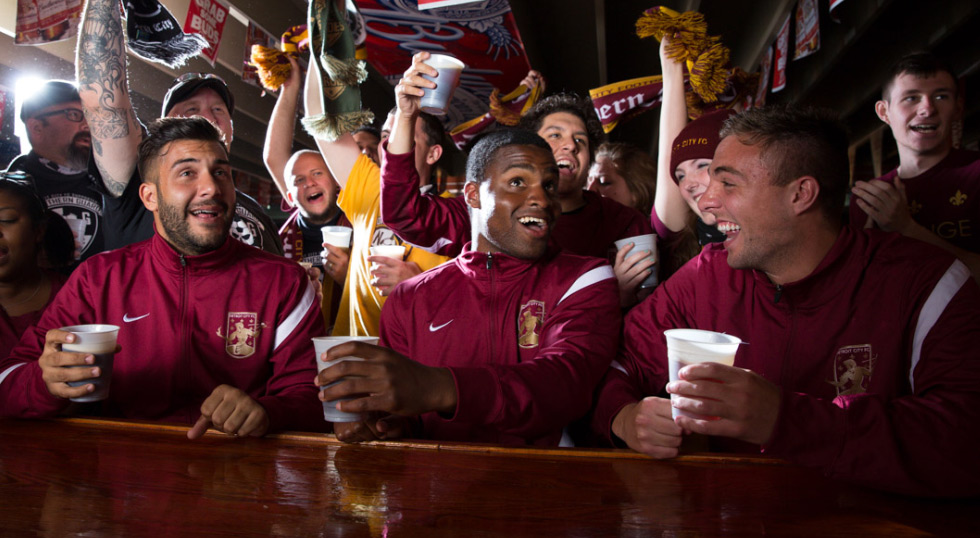
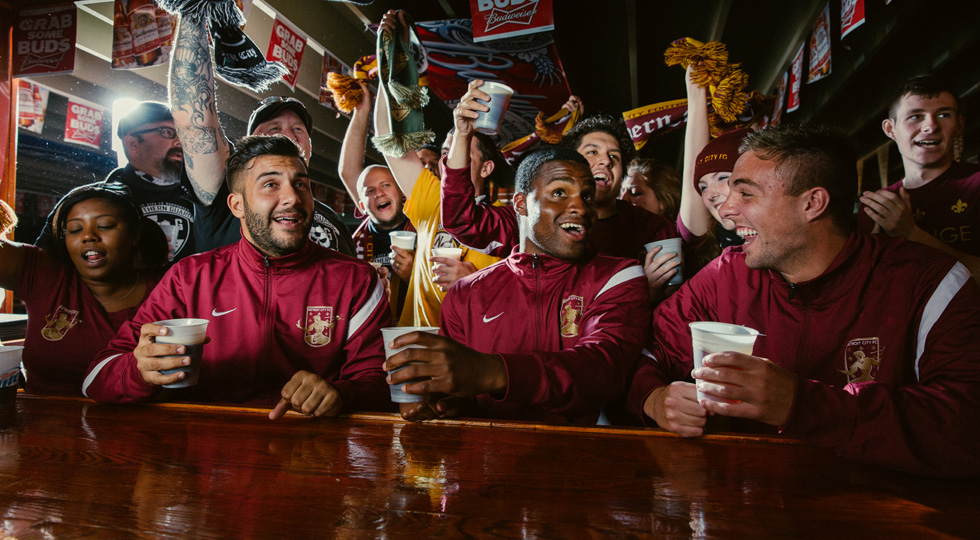
allez le rouge

diff --git a/index.php b/index.php
@@ -13,11 +13,12 @@
                 <div class='col col_12 masthead last'>
                 <?php
                     $masthead_items = array(
+                        array('2013_07_life_dcfc.jpg','/2013/07/life/dcfc.php','Life','Allez Le Rouge'),
                         array('2013_04_tunde.jpg','/2013/04/music/tunde.php','Music','Tunde Olaniran',),
                         array('2013_05_femme_emerald.jpg','/2013/05/style/femme_emerald.php','Femme','Go Green'),
                         array('2013_05_homme_shoes.jpg','/2013/05/style/homme_shoes.php','Homme','Sneak Attack'),
-                        array('2013_04_music_handgrenades.jpg','/2013/04/music/the_handgrenades.php','Music','The HandGrenades',),
-                        array('2013_05_life_innerstate.jpg','/2013/05/life/inner_state.php','Life','Inner State Gallery')
+                        array('2013_04_music_handgrenades.jpg','/2013/04/music/the_handgrenades.php','Music','The HandGrenades',)
+
                     );
                     
                     drawMasthead($masthead_items);
@@ -27,19 +28,18 @@
                 <div id='months'>
 
                 <div id='month_2013_05' class='month'>
-                    <div class='col col_12 last'>
-                        <h3 class='date'>May 2013</h3>
-                    </div>
+
 
                     <?php
                         $grid_articles = array(
                             array('about_us',4),
-                            array('2013_05_life_innerstate',8),
+                            array('2013_07_life_dcfc',4),
                             array('2013_05_life_tacos',4),
+                            array('2013_05_life_innerstate',8),
                             array('2013_05_homme_ties',4),
                             array('2013_05_homme_shoes',4),
                             array('2013_05_femme_dresses',4),
-                            array('2013_05_femme_emerald',8)
+                            array('2013_05_femme_emerald',4)
                         );
                         drawArticlesGrid($grid_articles);
                     ?>
@@ -47,9 +47,6 @@
 
                 
                 <div id='month_2013_04' class='month'>
-                    <div class='col col_12 last'>
-                        <h3 class='date'>April 2013</h3>
-                    </div>
 
                     <?php
                         $grid_articles = array(
@@ -69,9 +66,7 @@
                 </div>
 
                 <div id='month_2013_03' class='month'>
-                    <div class='col col_12 last'>
-                        <h3 class='date'>March 2013</h3>
-                    </div>
+
                 
                     <?php
                         $grid_articles = array(

diff --git a/includes/functions.php b/includes/functions.php
@@ -16,11 +16,13 @@ $articles_global_json = file_get_contents($doc_root .'/includes/articles_global.
 $articles_2013_02_json = file_get_contents($doc_root .'/includes/articles_2013_02.json');
 $articles_2013_04_json = file_get_contents($doc_root .'/includes/articles_2013_04.json');
 $articles_2013_05_json = file_get_contents($doc_root .'/includes/articles_2013_05.json');
+$articles_2013_q3_json = file_get_contents($doc_root .'/includes/articles_2013_q3.json');
 $GLOBALS['decoded_articles'] = array_merge_recursive(
     json_decode($articles_global_json, true),
     json_decode($articles_2013_02_json, true),
     json_decode($articles_2013_04_json, true),
-    json_decode($articles_2013_05_json, true)
+    json_decode($articles_2013_05_json, true),
+    json_decode($articles_2013_q3_json, true)
 );
 
 $GLOBALS['decoded_articles'] = array_to_object($GLOBALS['decoded_articles']);
